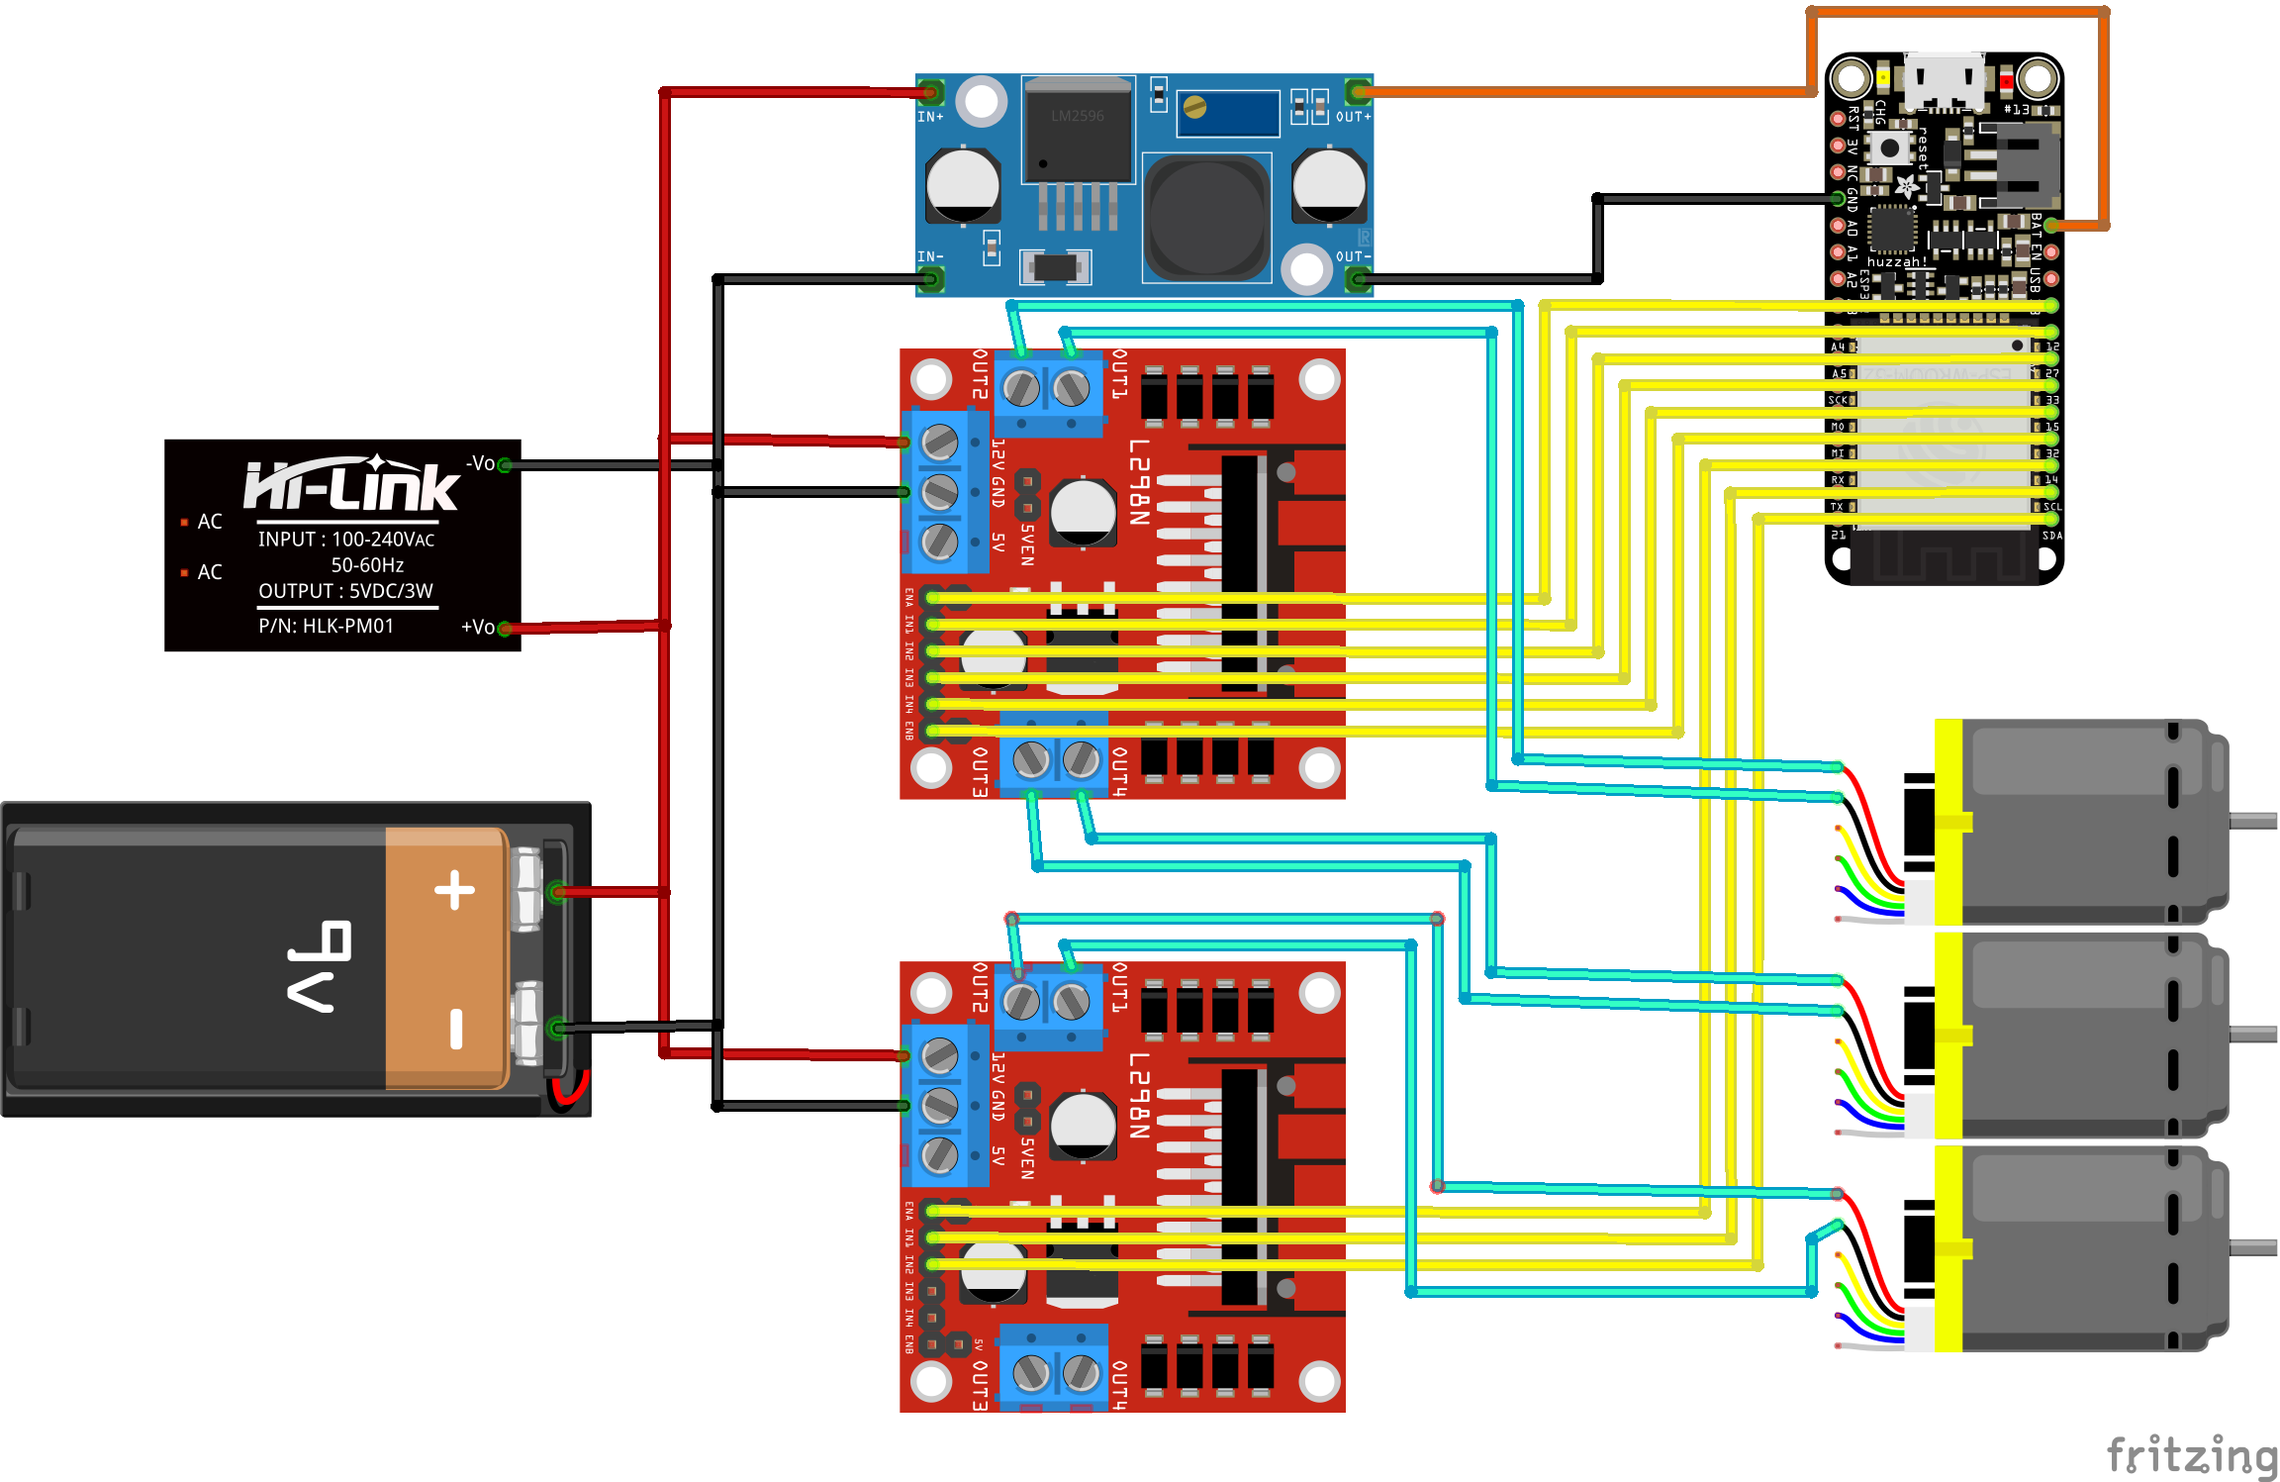
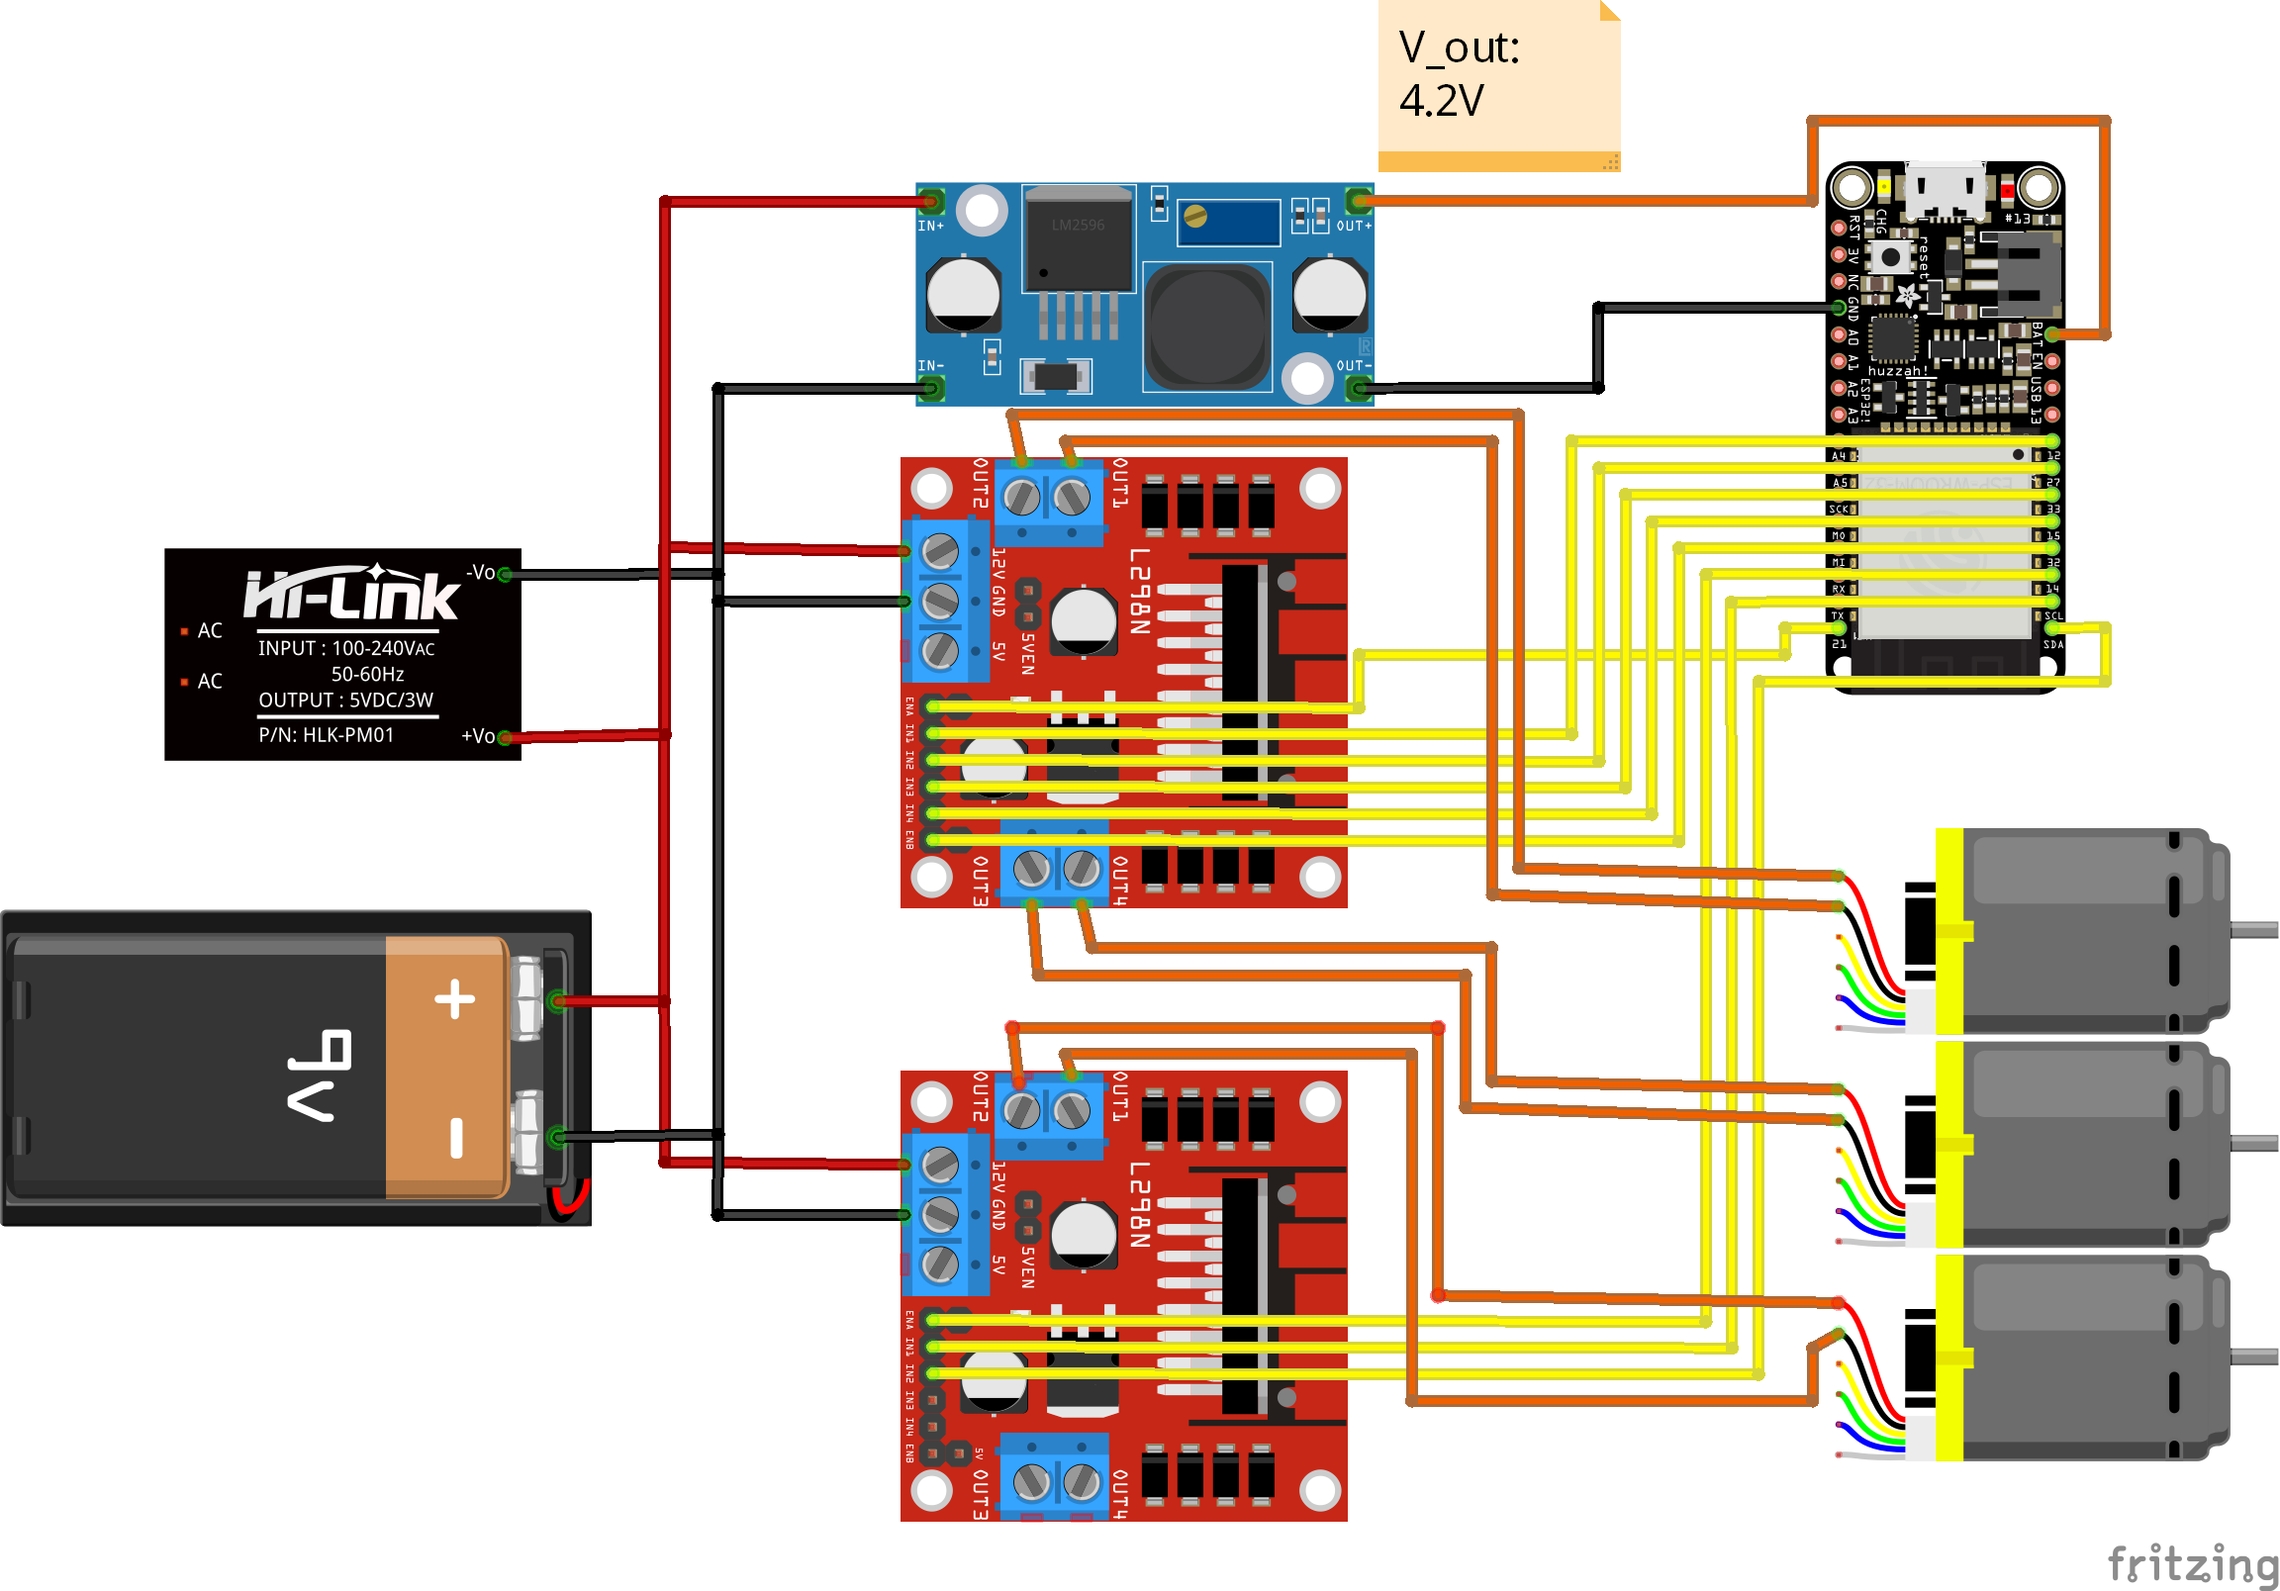
eliminate motor vibration, set pins as low. Include LED to check boards conection

diff --git a/Wifi_ServerClient_ESP32/src/main.cpp b/Wifi_ServerClient_ESP32/src/main.cpp
@@ -2,7 +2,7 @@
  * This section will define all the variables the user is spected to
  * configurate, please don't modify the other sections*/
 
-bool wifiPass = false; //True if the WiFi network has password; False if not. 
+bool wifiPass = false ; //True if the WiFi network has password; False if not. 
 const char* ssid = "MIT"; //WiFi ssid
 const char* password = ""; //WiFi password
 
@@ -13,7 +13,10 @@ const char* password = ""; //WiFi password
 const int pinMotor[]= {12,27,15,33,22,23};// {moto1CW,motor1CCW,moto2CW,motor2CCW,moto3CW,motor3CCW}
 const int pinEnable[]={21,32,14};
 
-const int motorSpeed = 220; //Motor speed, this variable will define the motor speed, to define the number follow the following ecuation: Max_RPM*motorSpeed/255=Speed_expected. 
+const int motorSpeed = 140; //Motor speed, this variable will define the motor speed, to define the number follow the following ecuation: Max_RPM*motorSpeed/255=Speed_expected. 
+bool motorTimeControl = true; //True if the users wants to control the time the robot is activated, false if not. 
+const int motorDelay = 100; //Defines the amount of time the robot will move 
+ 
 
 /*******************TORQUE RAMP CONFIGURATION*********/
 /**Key:
@@ -25,7 +28,7 @@ const int motorSpeed = 220; //Motor speed, this variable will define the motor s
 *************************************************************************************************/
 
 bool inMove = false;
-const int maxPayload = 255;
+const int maxPayload = 215;
 const int minPayload = 120;
 const int torqueRampSmoother =10; //The smaller this number is, the slower the acceleration will be. 
 const int torqueRampDelay= 10; 
@@ -33,7 +36,7 @@ const int torqueRampDelay= 10;
 /*****************MOTOR DIRECTION**********/
 bool motor1 = false;
 bool motor2 = true;
-bool motor3 = true;
+bool motor3 = false;
 
 /******DON NOT MODIFY PASS HERE*********/
 
@@ -42,9 +45,9 @@ bool motor3 = true;
 #include "analogWrite.h"
 #include "ESPAsyncWebServer.h"
 
-const int led = 13;
-
 AsyncWebServer server(80); 
+
+const int led = 13;
 
 /// Create the website
 String getPage(){
@@ -220,6 +223,14 @@ void setup(void){
 }
 
 void loop(){
+   if (WiFi.status() == WL_CONNECTED){
+     digitalWrite(led,HIGH);
+   }
+   else
+   {
+     digitalWrite(led,LOW);
+   }
+      
     
 }
 
@@ -462,7 +473,7 @@ void torqueRamp(String motor1Status, String motor2Status, String motor3Status){
         analogWrite(pinEnable[3],payload);
       }
       payload=payload-delta;
-      delay(500);
+      delay(torqueRampDelay);
     }
     inMove= true;
   }
